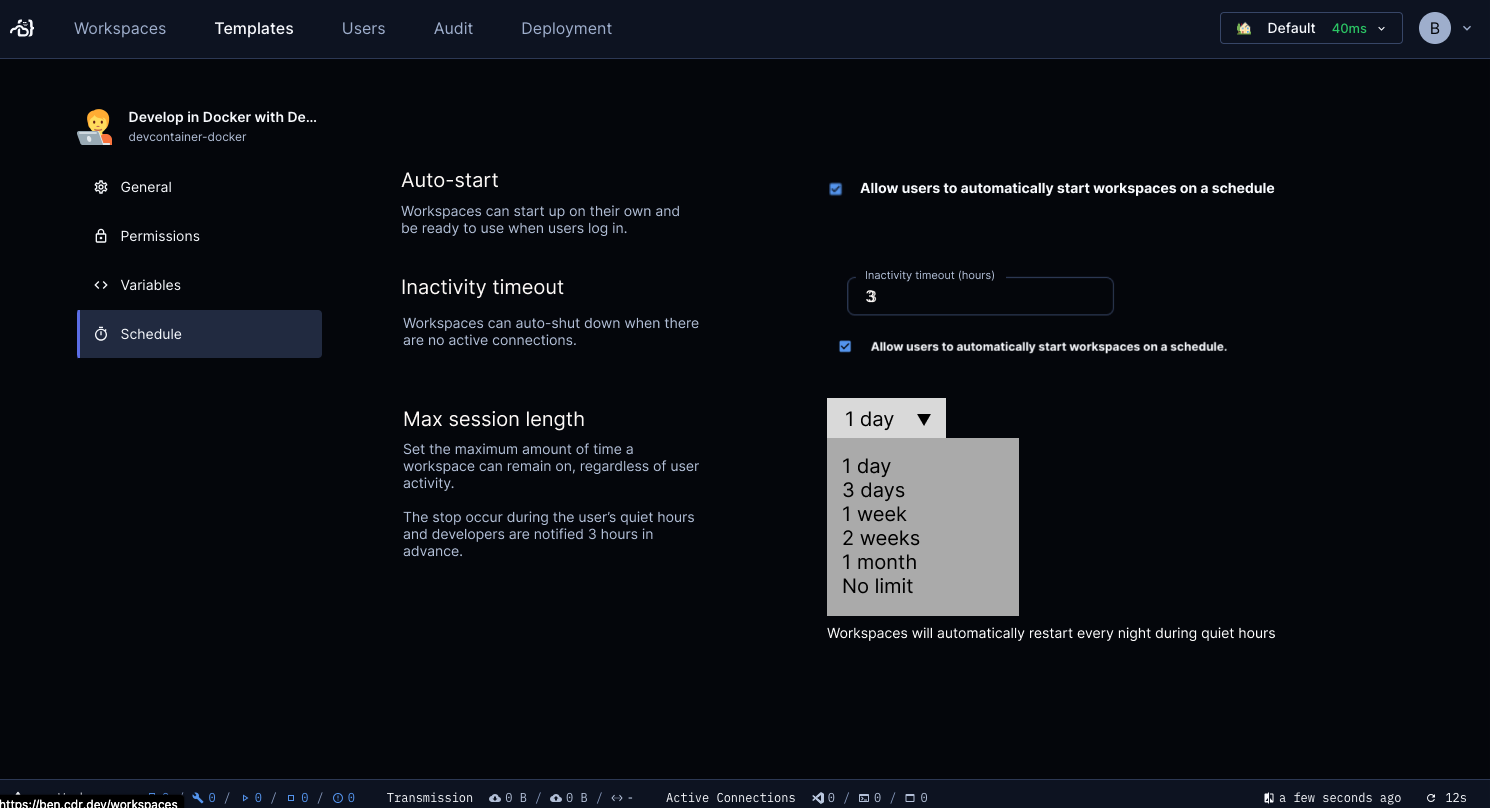
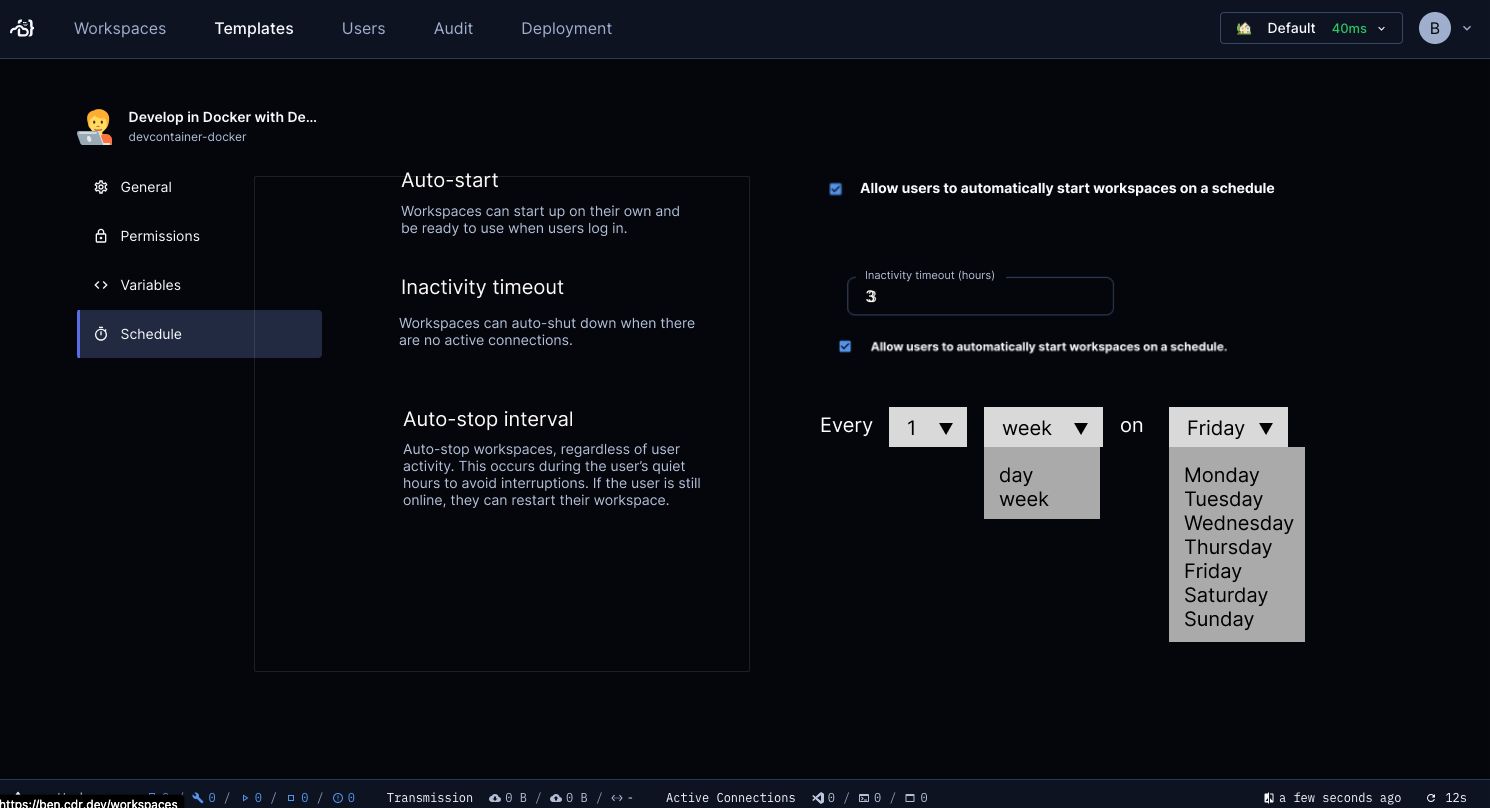
change language

Changed region(s): [[0.5557, 0.495, 0.8953, 0.8045], [0.2779, 0.495, 0.4631, 0.7116], [0.247, 0.3713, 0.4631, 0.4332]]

diff --git a/docs/workspaces.md b/docs/workspaces.md
@@ -45,21 +45,19 @@ In Coder, workspaces can auto-stop when the user is not actively using the works
 - Open tunnels (`coder port-forward`)
 - Open WebSockets (web terminal, [web IDEs](./ides/web-ides.md) such as code-server and JupyterLab)
 
-> [Custom activity](#TODO) can be registered via Coder's REST API, such as an ongoing data science pipeline.
+> [Custom activity](./admin/automation.md#workspace-agents) can be registered via Coder's REST API, such as an ongoing data science pipeline.
 
 Your workspace's auto-stop behavior can be seen in the dashboard. Template settings in Coder determine if users can alter their workspace schedules.
 
 ![TODO: use real screenshot](./images/workspaces/stops-after-3-hours.png)
 
-### Max session length (enterpise)
+### Auto-stop schedule
 
-Workspaces may also have a max session length, which enforces a stop or restart even if you are actively using your workspace.
-
-![TODO: use real screenshot](./images/workspaces/approaching-stop.png)
-
+Some templates may have an auto-stop schedule that ensures workspaces are stopped
+or restarted at a specific interval, regardless of activity. This occurs during quiet hours (see below) to avoid interrupting users..
 #### Quiet hours
 
-To avoid interruptions, users can establish their "quiet hours", which are by default set from midnight to 3 AM, during which these actions occur. Users can also extend the deadline by up to 2 hours if they are in the middle of important work.
+To avoid interruptions, you can establish "quiet hours", which are by default set from midnight to 3 AM, during which these actions occur. Users can also extend the deadline by up to 2 hours if they are in the middle of important work.
 
 Example:
 
@@ -78,13 +76,6 @@ user bumps
 <!-- NOTE: This will be in the "Account settings" page -->
 
 Admin controls around workspace auto-stop are an enterprise feature. [Learn more here](./admin/template)
-
-### Max lifetime
-
-Max lifetime is a template-level setting that determines the number of hours a
-workspace can run before it is automatically shutdown, regardless of any
-active connections. This setting ensures workspaces do not run in perpetuity
-when connections are left open inadvertently.
 
 ## Updating workspaces
 

diff --git a/docs/templates/index.md b/docs/templates/index.md
@@ -73,9 +73,9 @@ coder templates create <template-name>
 
 While workspaces can auto-stop based on activity, users set this value per-workspace it can be continuously bumped to prevent a workspace from stopping. For large enterprises, this can drive up cloud cost and introduce security concerns, as workspaces are not kept up to date.
 
-To enforce auto-stopping, you can enforce a timeout for all workspaces, as well as a max session duration.
+To enforce auto-stopping, you can set an auto-stop interval to ensure workspaces are auto restarted or auto-stopped, regardless of user activity.
 
-![Workspace auto-stop settings](../images/templates/pre-filled-parameters.png)
+![Workspace auto-stop settings](../images/templates/template-schedule-settings.png)
 
 Stops occur during a user's [quiet hours](../workspaces.md#quiet-hours), which prevent interruptions. If a user is still using their workspace, they can postpone a restart up to 3 hours.
 
